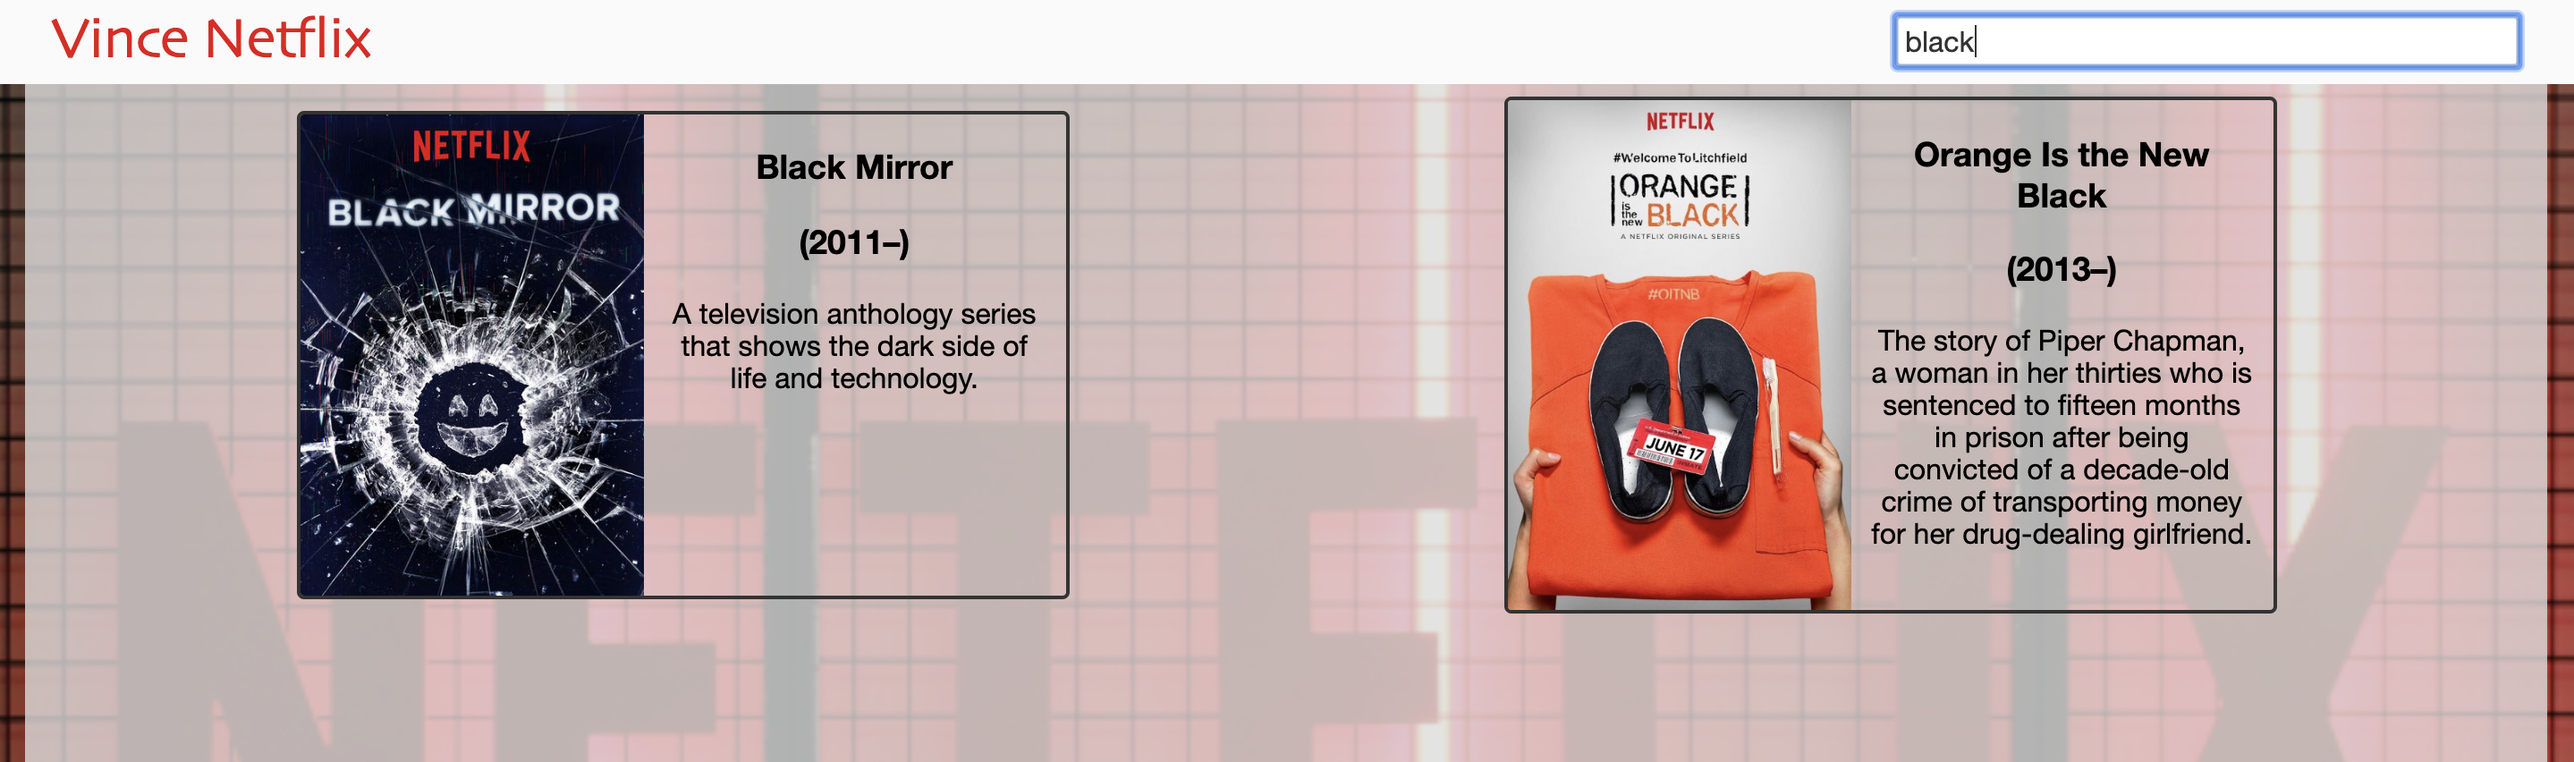
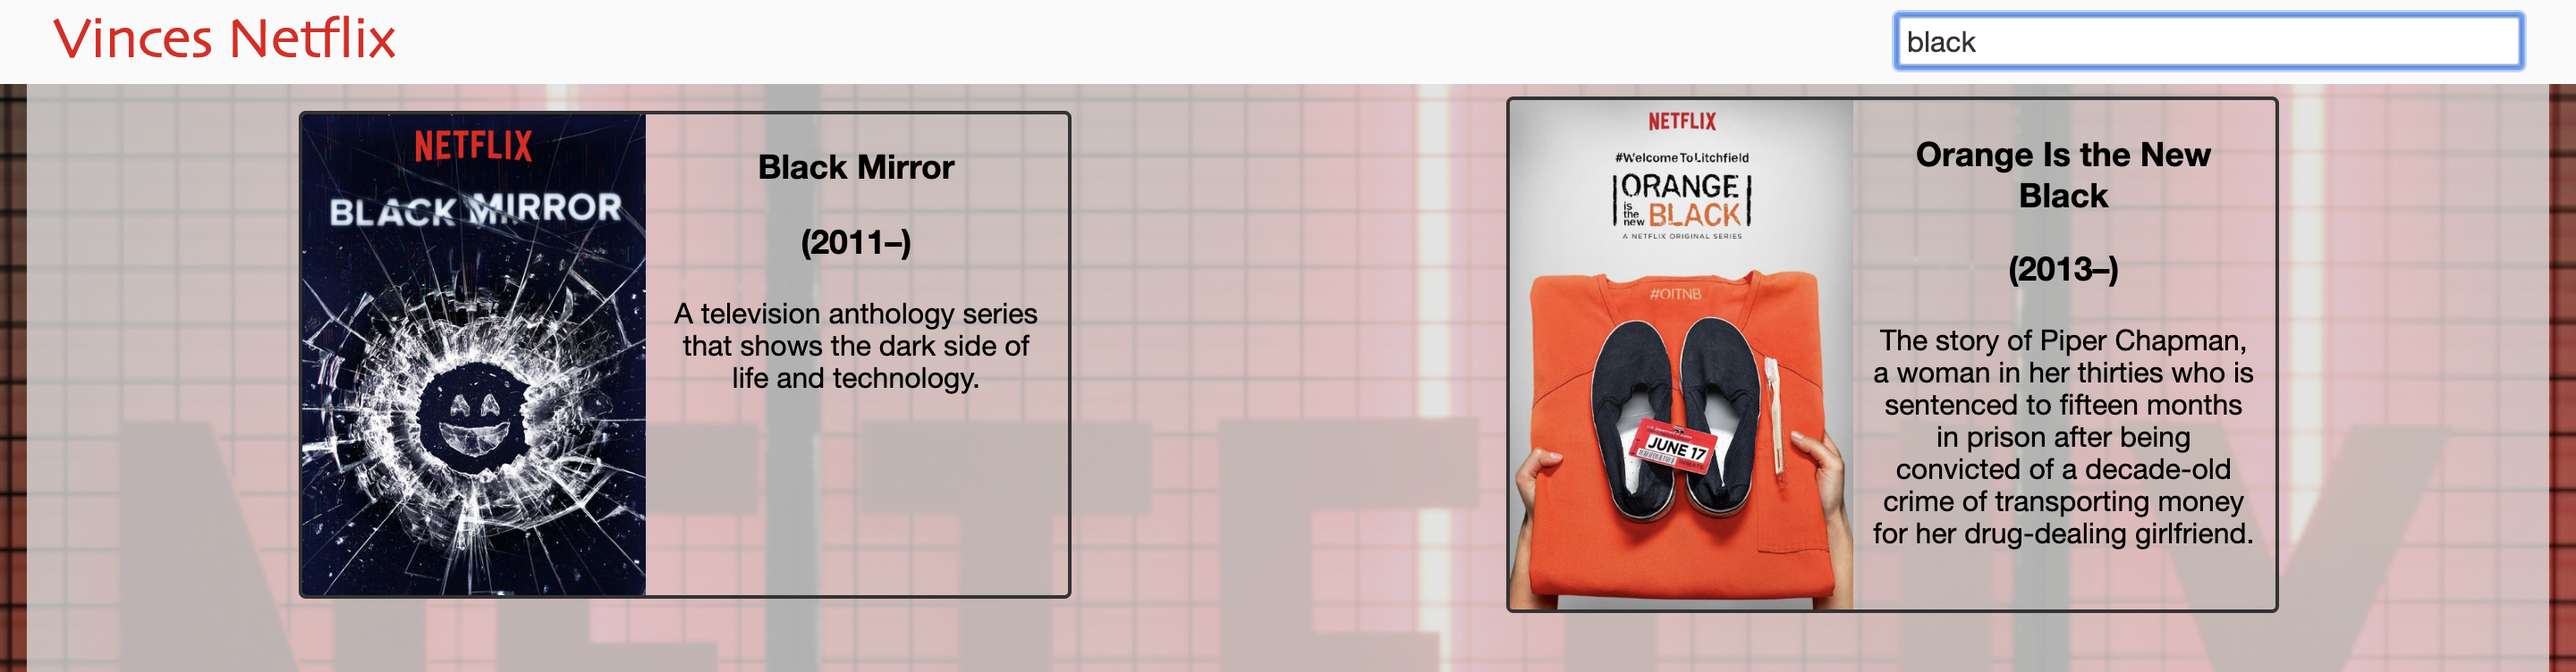
Small changes

diff --git a/netflix/js/Header.jsx b/netflix/js/Header.jsx
@@ -26,7 +26,7 @@ const Header = (props: {showSearch?: boolean, handleSearchTermChange: Function, 
   <header>
     <h1>
       <Link to='/'>
-       Vince Netflix
+       Vinces Netflix
       </Link>
     </h1>
   {utilSpace}
